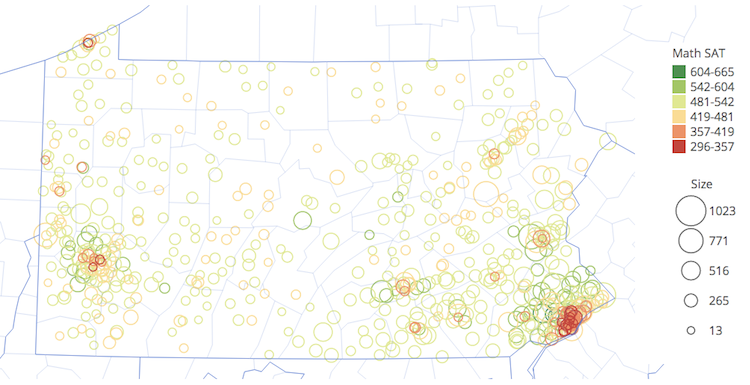
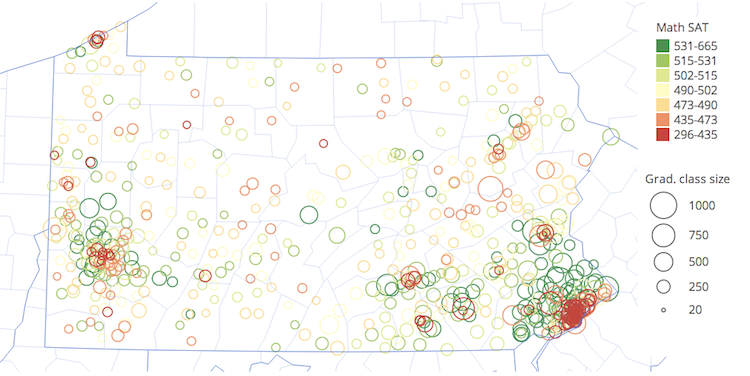
adding distribution and ranking graphs

diff --git a/source/stylesheets/all.scss b/source/stylesheets/all.scss
@@ -24,7 +24,9 @@ body {
   .graph_container {
     position: relative;
     width: 1024px;
+    height: 500px;
     overflow: hidden;
+    margin-bottom: 70px;
     .graph {
       position: absolute;
       width: 100%;
@@ -33,26 +35,27 @@ body {
         position: absolute;
       }
     }
+    .legend {
+      position: absolute;
+      width: 150px;
+      top: 10px;
+      left: 90px;
+      background: white;
+    }
   }
 }
 
 //
 // Distribution
 //
-#distribution_graph_container {
-  height: 100px;
-}
 
 //
 // Regional graph
 //
 #regional_graph_container {
-  height: 500px;
   .legend {
-    position: absolute;
-    width: 150px;
+    left: auto;
     right: 0;
-    background: white;
     .legend-circle {
       fill: none;
       stroke: $darkgray;
@@ -60,7 +63,7 @@ body {
     }
   }
   #regional_graph_legend_1 {
-    top: 50px;
+    top: 20px;
   }
   #regional_graph_legend_2 {
     top: 225px;
@@ -105,13 +108,7 @@ svg {
   }
   // axis text
   .axis text {
-    font-size: 1.5em;
     @include open_sans;
-  }
-  // graph line
-  path {
-    stroke-width: 7;
-    fill: none;
   }
 }
 

diff --git a/source/content/index.md b/source/content/index.md
@@ -1,7 +1,25 @@
 # Pennsylvania High School SAT scores
 ### for the 2012-2013 school year
 
-**Schools by region**  
+</br>
+
+**School score distribution**  
+Each high school's average SAT score is considered one unit in this distribution.
+
+<div id='distribution_graph_container' class='graph_container'>
+  <div id='distribution_graph' class='graph'></div>
+  <div id='distribution_graph_legend_1' class='legend'></div>
+</div>
+
+**Score for each school**  
+Each high school's average SAT score is one vertical bar in the graph.
+
+<div id='ranking_graph_container' class='graph_container'>
+  <div id='ranking_graph' class='graph'></div>
+  <div id='ranking_graph_legend_1' class='legend'></div>
+</div>
+
+**Scores by region**  
 Each high school in PA is represented by a circle - the color represents the school average SAT Math score from lowest (red) to highest (green). And the area of the circle represents the school's estimated 12th grade class size.
 
 <div id='regional_graph_container' class='graph_container'>
